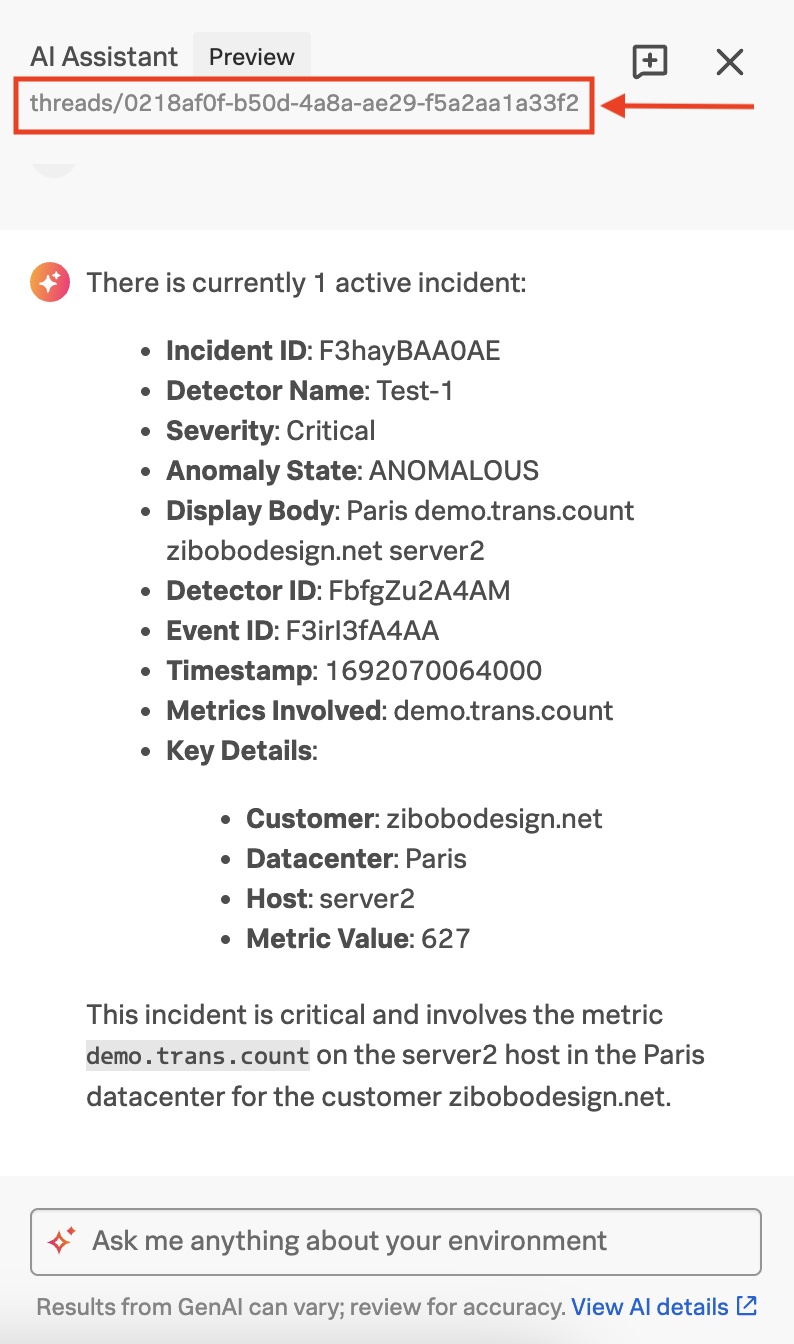
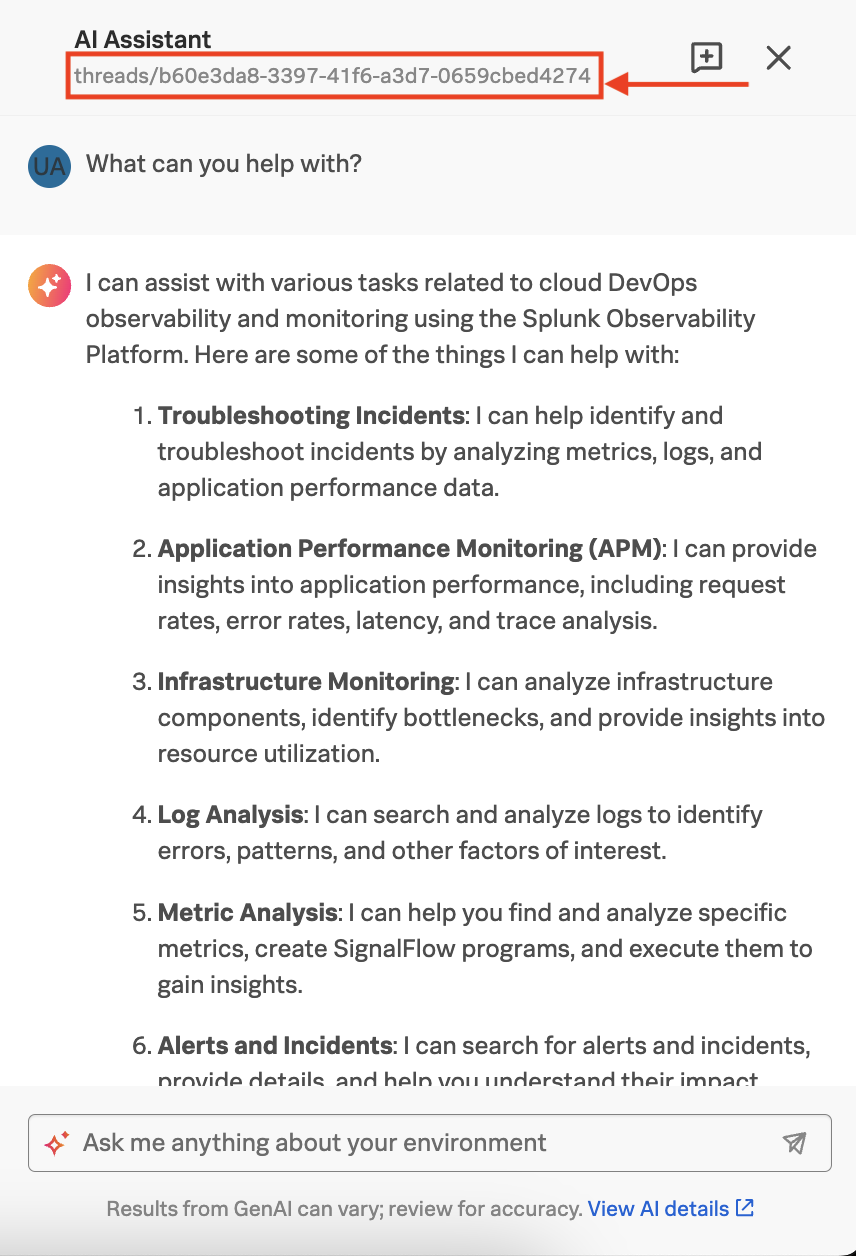
updated screenshots

diff --git a/get-started/o11y-ai.rst b/get-started/o11y-ai.rst
@@ -40,12 +40,13 @@ Enter your prompt in plain English in the text box. Ask about anything in your e
 
 Alternatively, you can select from the two suggested prompts:
 
+* What can you help with?
 * List active incidents
-* List services experiencing high error rates
+* List error traces from the past 15 minutes
 
 ..  image:: /_images/ai/ai2.png
     :width: 40%
-    :alt: This image shows the location of the AI Assistant for Observability.
+    :alt: This image shows the suggested prompts for the AI Assistant.
 
 .. note:: When you ask questions or submit instructions that require the AI Assistant to query logs, there is an impact on your SVC quota.
 
